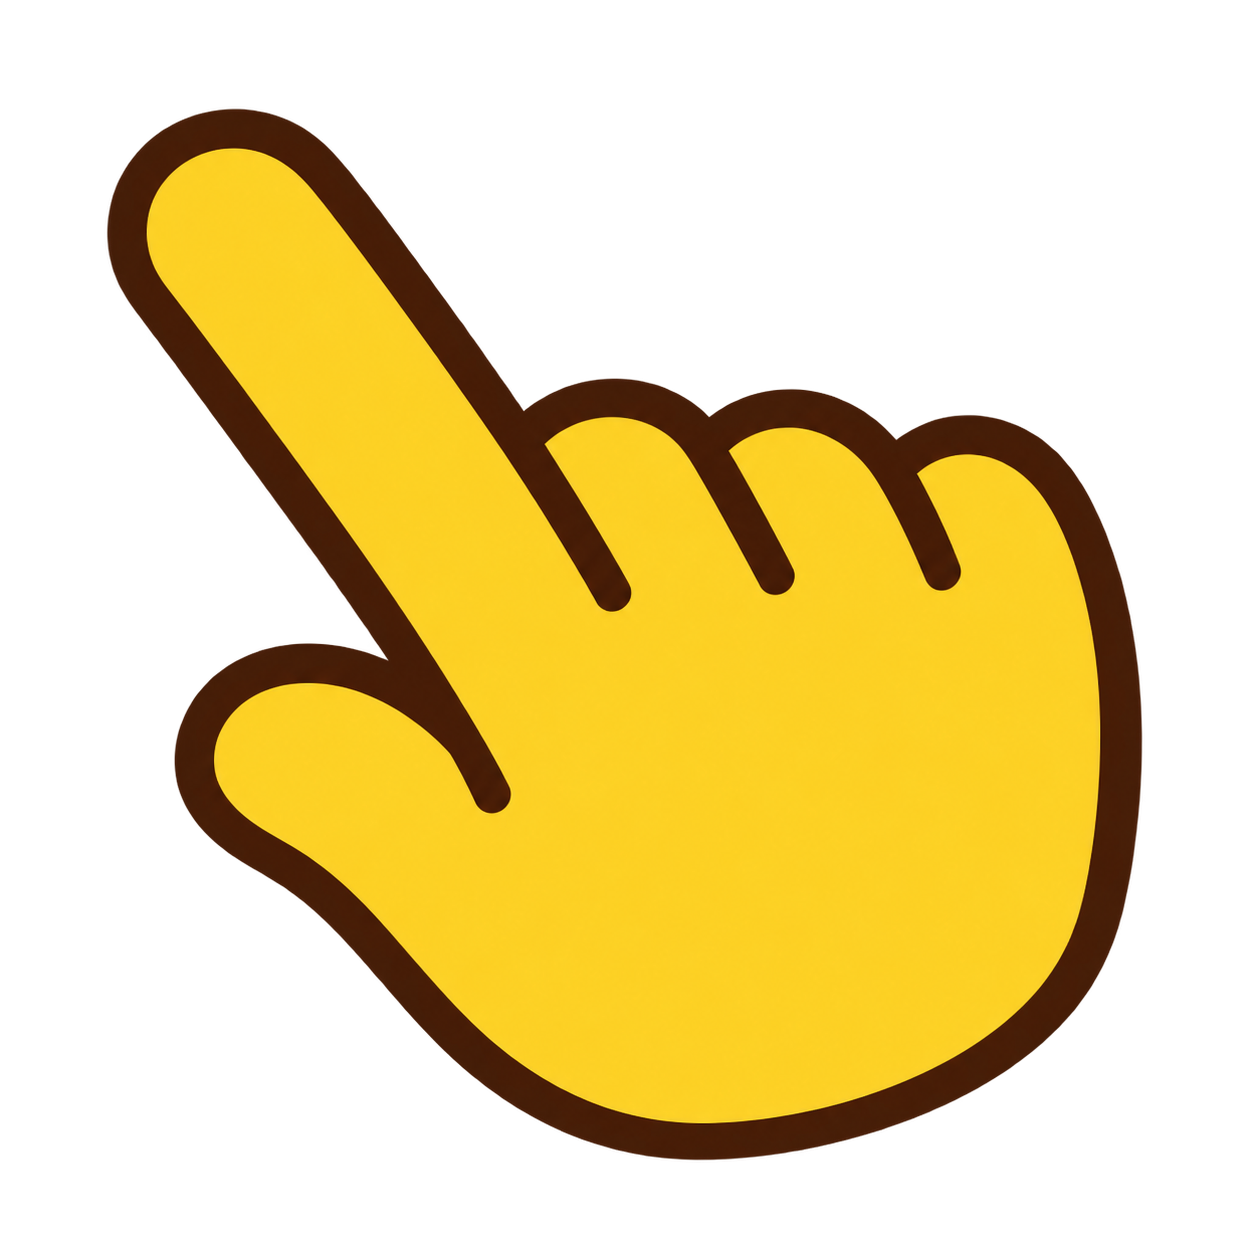
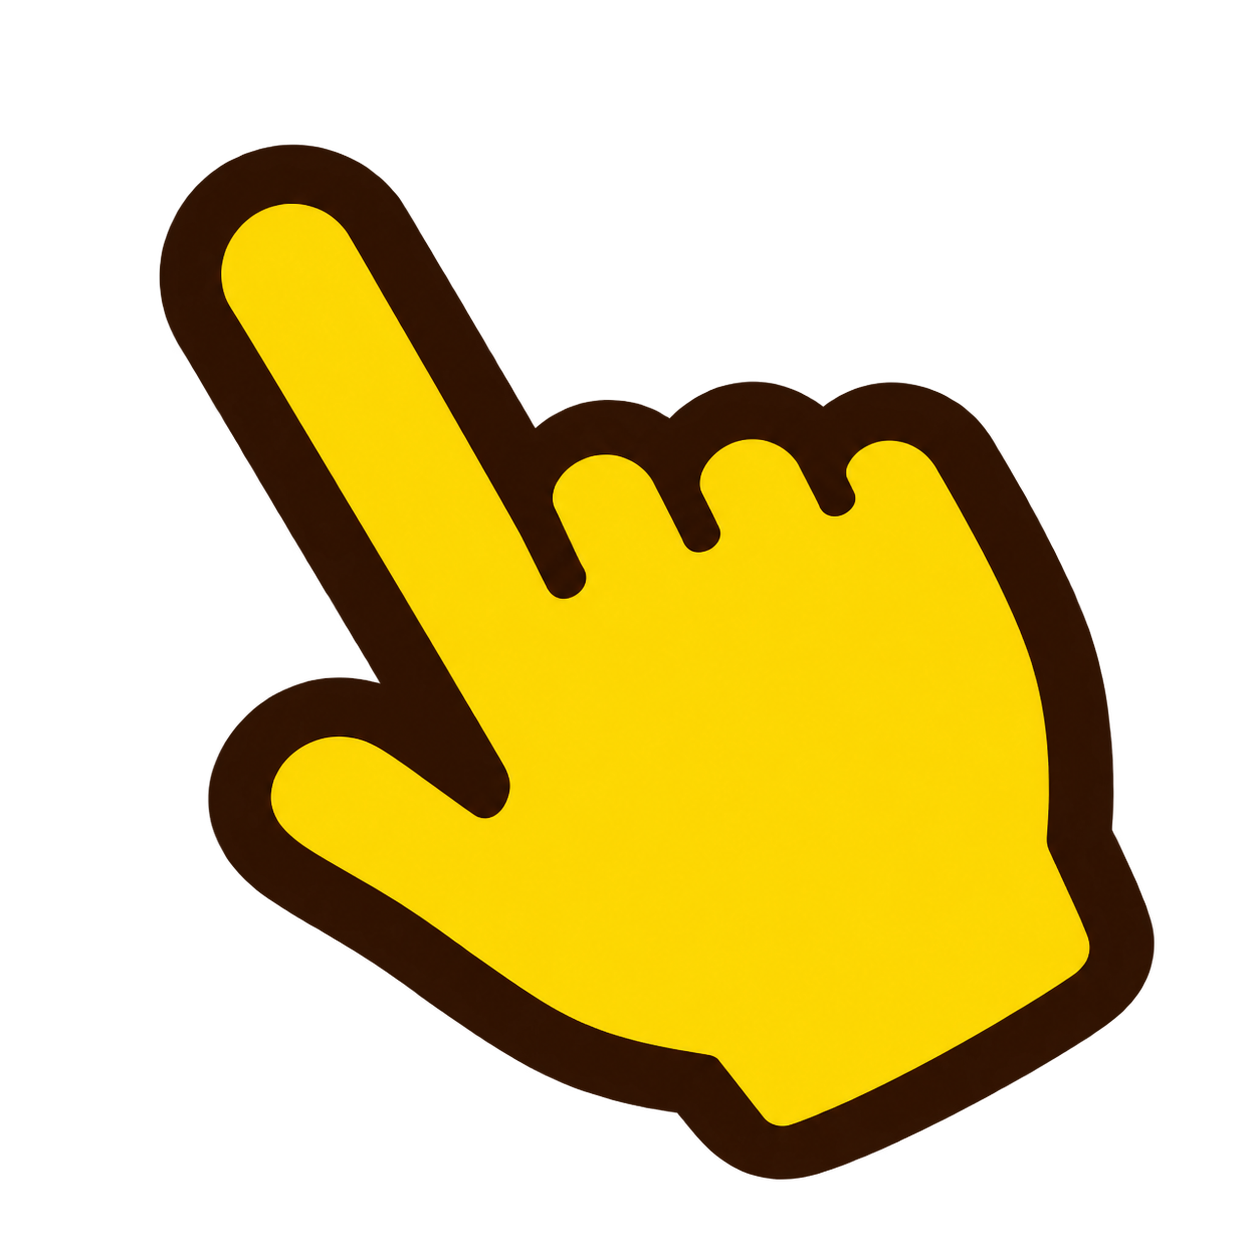
Update Prompt Pocket

diff --git a/assets/css/prompt-pocket.css b/assets/css/prompt-pocket.css
@@ -2361,16 +2361,16 @@ body.buttonGlowEnabled .detailTable.detailTable tbody>tr.folderRow:active{
   -webkit-tap-highlight-color:transparent!important;
 }
 
-#tutorialDialog{width:min(620px,calc(100vw - 24px));height:min(720px,calc(66dvh));min-height:520px;max-height:calc(100dvh - 24px);padding:0;border:0;border-radius:22px;background:#fff;overflow:hidden}
+#tutorialDialog{width:min(620px,calc(100vw - 24px));height:min(720px,calc(66dvh));min-height:520px;max-height:calc(100dvh - 24px);padding:0;border:0;border-radius:22px;background:#eff8d0;overflow:hidden}
 .tutorialPanel{height:100%;box-sizing:border-box;padding:18px;display:grid;grid-template-rows:28px 8px minmax(0,1fr) 54px;gap:10px;text-align:center}
 .tutorialTitle{margin:0;font-size:24px;font-weight:900;line-height:1.15}
 .tutorialTabs{display:flex;justify-content:center;gap:6px}.tutorialTab{width:18px;height:5px;border-radius:99px;background:#d8d8d8;transition:background .15s,transform .15s}.tutorialTab.active{background:#496b90;transform:scaleX(1.35)}
 .tutorialStep{min-height:0;height:100%;display:grid;grid-template-rows:280px 84px;align-content:start;gap:10px;overflow:hidden}
 .tutorialStep[hidden]{display:none!important}
 .tutorialMedia{position:relative;min-height:0;width:100%;display:grid;place-items:center;overflow:hidden;border:5px solid #496b90;border-radius:14px;background:#faf9f6;box-sizing:border-box;pointer-events:none}
-.tutorialMedia>img:not(.tutorialPointer){display:block;width:100%;height:100%;object-fit:contain}.tutorialPointer{position:absolute!important;z-index:2;width:64px!important;height:64px!important;object-fit:contain!important;filter:drop-shadow(0 1px 1px rgba(0,0,0,.2))}.pointerCopyPrompt{left:13%;top:13%}.pointerAdd{left:62%;top:35%}.pointerPromptInput{left:24%;top:10%}.pointerCopyPhoto{left:34%;bottom:3%}.pointerSelectImage{left:28%;top:4%}.pointerSave{left:24%;bottom:7%}
+.tutorialMedia>img:not(.tutorialPointer){display:block;width:100%;height:100%;object-fit:contain}.tutorialPointer{position:absolute!important;z-index:2;width:64px!important;height:64px!important;object-fit:contain!important;filter:drop-shadow(0 1px 1px rgba(0,0,0,.2))}.pointerCopyPrompt{left:11%;top:20%}.pointerAdd{left:46%;top:42%}.pointerPromptInput{left:14%;top:22%}.pointerCopyPhoto{left:33%;top:75%}.pointerSelectImage{left:33%;top:7%}.pointerSave{left:23%;top:62%}
 .tutorialSelectionHandle{position:absolute;z-index:1;width:14px;height:14px;border-radius:50%;background:#2696ee;box-shadow:0 0 0 2px rgba(255,255,255,.92)}.tutorialSelectionHandle::after{content:"";position:absolute;top:-11px;left:5px;width:4px;height:14px;border-radius:4px;background:#2696ee}.selectionStart{left:2px;top:53%}.selectionEnd{right:2px;bottom:7%}.selectionEnd::after{top:auto;bottom:-11px}
 .tutorialMessage{height:84px;box-sizing:border-box;display:grid;place-items:center;padding:0 8px;overflow:hidden}.tutorialMessage h2{margin:0 0 4px}.tutorialMessage p{margin:0;line-height:1.5}
 .tutorialFinalIcon{font-size:72px}
-.tutorialActions{height:54px;display:grid;grid-template-columns:repeat(3,minmax(0,1fr));gap:8px}.tutorialActions button{min-width:0;border:2px solid #4d4d4d!important;border-radius:12px;box-shadow:0 1px 2px rgba(0,0,0,.12)}.tutorialActions button:disabled{opacity:.38;cursor:default}.tutorialActions .tutorialActionPlaceholder{visibility:hidden;pointer-events:none}
+.tutorialActions{height:54px;display:grid;grid-template-columns:repeat(3,minmax(0,1fr));gap:8px}.tutorialActions button{min-width:0;border:2px solid #4d4d4d!important;border-radius:12px;box-shadow:0 1px 2px rgba(0,0,0,.12)}.tutorialActions .tutorialBack{background:#dcecff!important;border-color:#4776a5!important;color:#1f568b!important}.tutorialActions .tutorialNext{background:#316f9f!important;border-color:#1e527d!important;color:#fff!important}.tutorialActions button:disabled{opacity:.38;cursor:default}.tutorialActions .tutorialActionPlaceholder{visibility:hidden;pointer-events:none}
 @media(max-width:560px){#tutorialDialog{width:calc(100vw - 16px);height:calc(66dvh);min-height:500px;max-height:calc(100dvh - 16px);border-radius:18px}.tutorialPanel{padding:14px;grid-template-rows:28px 8px minmax(0,1fr) 52px;gap:10px}.tutorialStep{grid-template-rows:260px 84px}.tutorialActions{height:52px;gap:6px}}

diff --git a/index.html b/index.html
@@ -4,7 +4,7 @@
   <meta charset="utf-8">
   <meta name="viewport" content="width=device-width,initial-scale=1,viewport-fit=cover">
   <meta name="theme-color" content="#ffffff">
-  <title>Prompt Pocket PP_v2.0_ALPHA2e</title>
+  <title>Prompt Pocket PP_v2.0_ALPHA2g</title>
   <!--
   Prompt Pocket ver.1.9 / FOLDER TEST1
   Folder feature baseline:
@@ -15,12 +15,12 @@
 -->
 
 
-  <link rel="stylesheet" href="assets/css/prompt-pocket.css?v=2.0-alpha2e-v1">
+  <link rel="stylesheet" href="assets/css/prompt-pocket.css?v=2.0-alpha2g-v1">
 </head>
 <body>
 <header class="topbar">
   <div>
-    <div class="titleLine"><h1>Prompt Pocket</h1><span class="headerVersion">PP_v2.0_ALPHA2e</span></div>
+    <div class="titleLine"><h1>Prompt Pocket</h1><span class="headerVersion">PP_v2.0_ALPHA2g</span></div>
   </div>
   <div class="topActions">
     <button id="newBtn" class="primary">＋ 新規登録</button>
@@ -392,7 +392,7 @@
   </div>
 </dialog>
 
-  <script defer src="assets/js/prompt-pocket.js?v=2.0-alpha2e-v1"></script>
+  <script defer src="assets/js/prompt-pocket.js?v=2.0-alpha2g-v1"></script>
   <script>
     if('serviceWorker' in navigator&&/^https?:$/.test(location.protocol)){
       const hadServiceWorker=navigator.serviceWorker.controller!==null;

diff --git a/service-worker.js b/service-worker.js
@@ -1,5 +1,5 @@
 const CACHE_PREFIX='prompt-pocket-static-';
-const CACHE_NAME=CACHE_PREFIX+'2-0-alpha2e-v1';
+const CACHE_NAME=CACHE_PREFIX+'2-0-alpha2g-v1';
 const APP_SHELL=[
   './',
   './index.html',
@@ -13,8 +13,8 @@ const APP_SHELL=[
   './assets/tutorial/step-05-select-image-clean.png',
   './assets/tutorial/step-06-save-clean.png',
   './assets/tutorial/step-07-card-added.png',
-  './assets/css/prompt-pocket.css?v=2.0-alpha2e-v1',
-  './assets/js/prompt-pocket.js?v=2.0-alpha2e-v1'
+  './assets/css/prompt-pocket.css?v=2.0-alpha2g-v1',
+  './assets/js/prompt-pocket.js?v=2.0-alpha2g-v1'
 ];
 
 self.addEventListener('install',event=>{

diff --git a/assets/js/prompt-pocket.js b/assets/js/prompt-pocket.js
@@ -67,7 +67,7 @@ const presetPrompts={
 };
 
 let items=JSON.parse(localStorage.getItem(KEY)||localStorage.getItem(LEGACY_KEY)||'[]');
-const APP_VERSION='2.0-alpha.2e';
+const APP_VERSION='2.0-alpha.2g';
 const VERSION_KEY='promptPocket.lastSeenVersion';
 const DATA_VERSION_KEY='promptPocket.dataVersion';
 const DATA_SCHEMA_VERSION='2.0';
